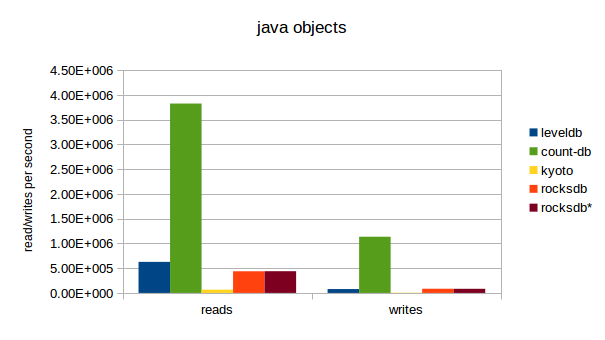
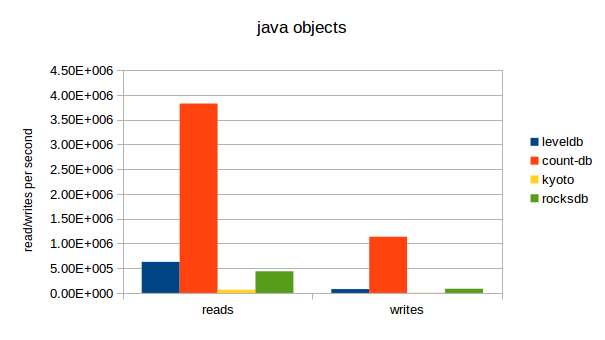
Removed reference to rocksDB* from test with java objects

diff --git a/doc/performance.md b/doc/performance.md
@@ -70,10 +70,10 @@ The third test in [BigramTestsMain.java](https://github.com/koendeschacht/count-
 
 ![](https://raw.githubusercontent.com/koendeschacht/count-db/master/doc/java_objects_performance.png)
 
-| action | leveldb   | count-db  | kyoto     | rocksdb   | rocksdb*  |
-|--------|-----------|-----------|-----------|-----------|-----------|
-| read   | 6.28E+005 | 3.83E+006 | 6.61E+004 | 4.37E+005 | 4.40E+005 |
-| write  | 7.73E+004 | 1.14E+006 | 5.08E+003 | 8.41E+004 | 8.37E+004 |
+| action | leveldb   | count-db  | kyoto     | rocksdb   |
+|--------|-----------|-----------|-----------|-----------|
+| read   | 6.28E+005 | 3.83E+006 | 6.61E+004 | 4.37E+005 |
+| write  | 7.73E+004 | 1.14E+006 | 5.08E+003 | 8.41E+004 |
 
 
 ## Reading and writing uniform counts
